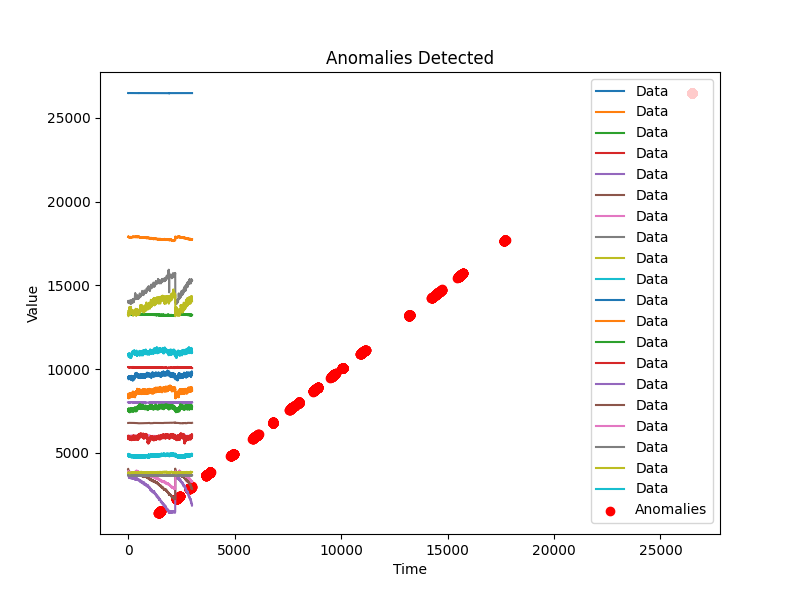
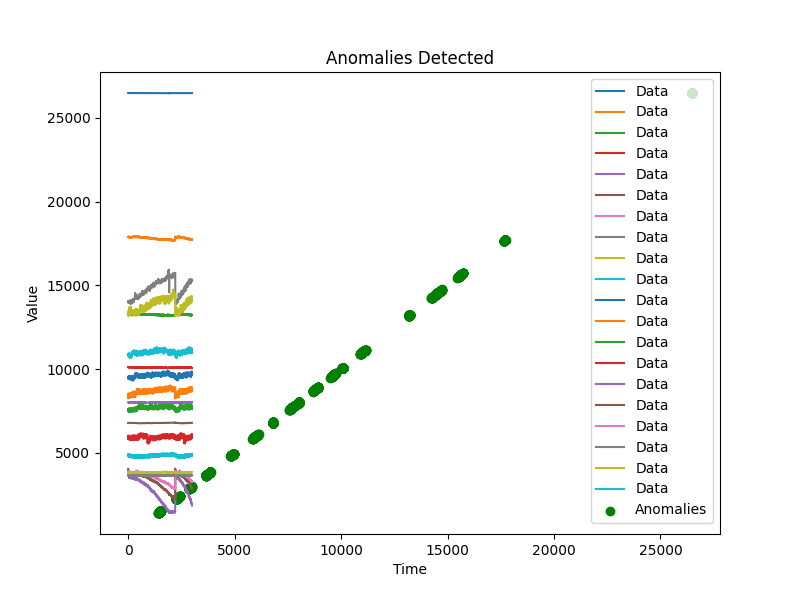
R>>G

diff --git a/main.py b/main.py
@@ -119,7 +119,7 @@ for f in data_files:
         # Save the anomalies as an image in the Images folder
         fig, ax = plt.subplots(figsize=(8, 6))
         ax.plot(data, label='Data')
-        ax.scatter(anomalies, anomalies, label='Anomalies', color='red')
+        ax.scatter(anomalies, anomalies, label='Anomalies', color='green')
         ax.set_xlabel('Time')
         ax.set_ylabel('Value')
         ax.set_title('Anomalies Detected')
